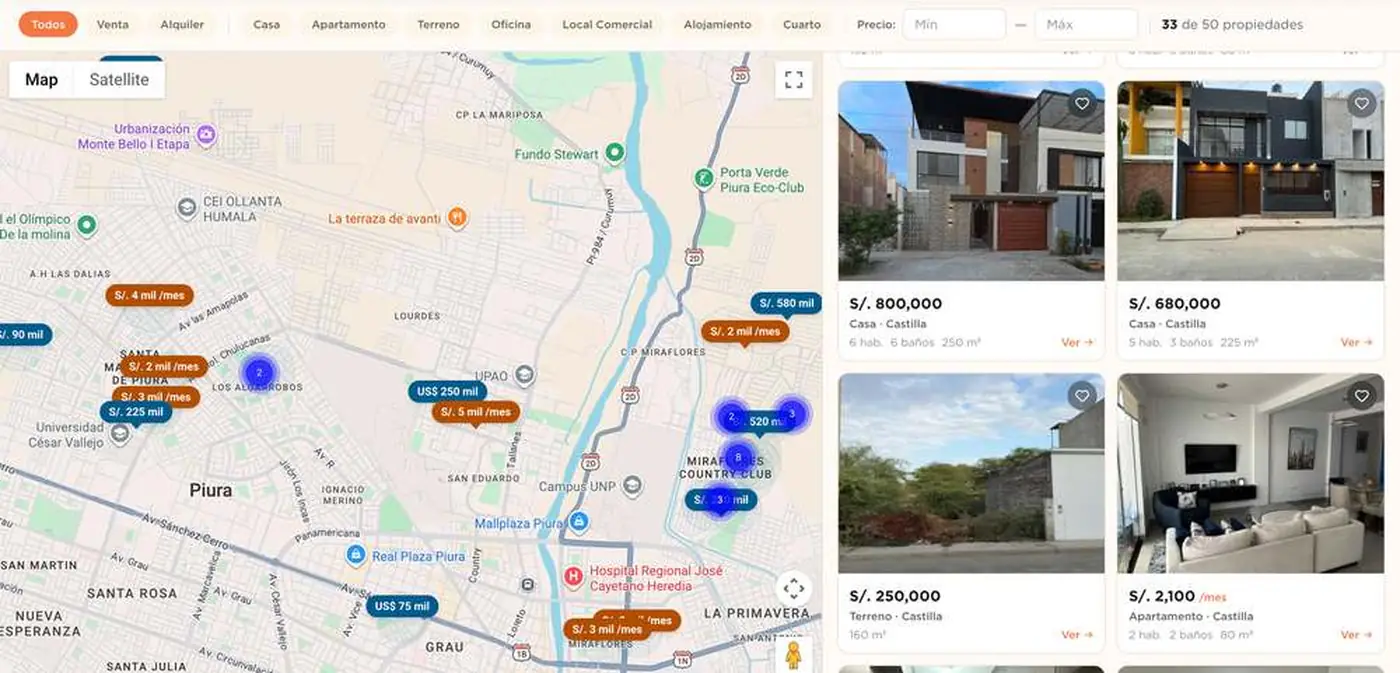
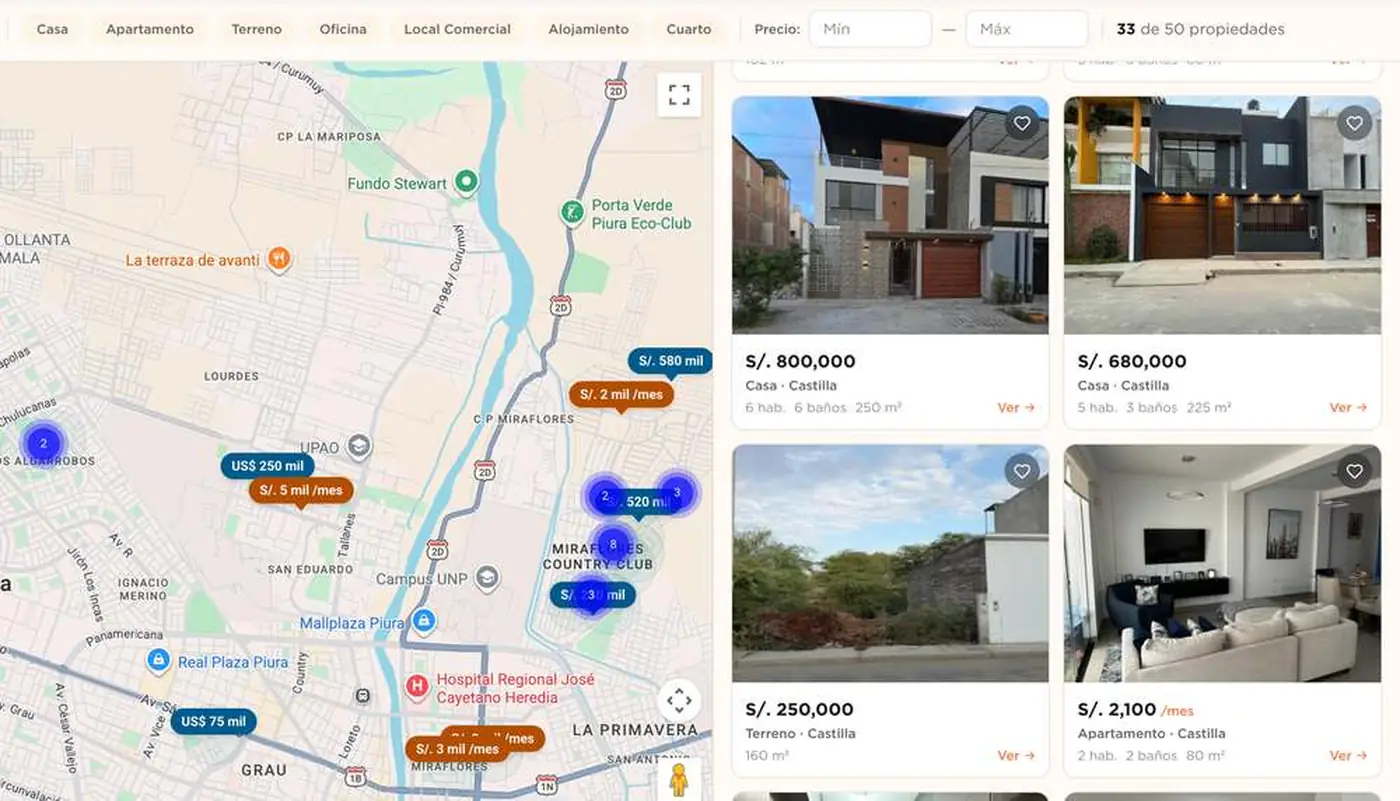
hero: gradient the background window, cut the district row to four
Third design pass, all from a critique of the rendered boards.

The flat 68% fade did not work, and made one thing worse: fading everything
around Google's white 'Map | Satellite' box made the white box relatively
MORE prominent, leaving a competitor's UI as the second most readable thing
in the hero. It is now cropped out of the capture entirely, and the fade is
two masked layers rather than one value -- sharp above the phone, where the
property-type row proves 'cualquier propiedad' in the product's own words,
melting to texture below. The orange rent pills that were competing with the
CTA for ownership of the colour go pale in the same move.

District row cut from six to four on a 5+ listing threshold: Castilla 24,
Sullana 11, Piura 6, 26 de Octubre 5 -- 46 of the 49 live listings. Miguel
Checa had one listing, which is not coverage, and is the first name a local
would test. A threshold is a defensible rule; picking by feel is not.

Body copy: 'el mismo dia' had lost its antecedent when the audience clause
was cut, so it dangled. 'Anuncias hoy y tu propiedad ya esta en el mapa'
anchors it and still claims only that the map exists, which needs nobody to
be looking at it.

Mobile map crop shifted so no price pill sits half-hidden behind the VER EL
MAPA control.

Claude-Session: https://claude.ai/code/session_01Dw9WyPae1fpWxV4qxejeAU

diff --git a/src/components/landing/HeroSection.tsx b/src/components/landing/HeroSection.tsx
@@ -22,7 +22,8 @@ interface HeroSectionProps {
  *   It reads better and implies an audience we do not have (52 users, 257
  *   listing views all time), which constraints.md forbids. Same-day is a
  *   verified fact: listings are written straight to status 'active' with no
- *   moderation gate.
+ *   moderation gate. "el mismo día" was dropped because its antecedent went
+ *   with the audience clause, leaving it dangling; "Anuncias hoy" anchors it.
  * - "Sin límite de avisos" is verified too: no cap exists in the rules, the
  *   services or the functions, and one owner already holds 8 listings.
  * - The free claim is made exactly twice — headline and body. It had been made
@@ -38,18 +39,12 @@ interface HeroSectionProps {
  * - the logo wordmark is #FECD60 on cream, which measures 1.43:1.
  */
 
-// Districts with LIVE listings on production, in count order: Castilla 24,
-// Sullana 11, Piura 6, 26 de Octubre 5, Máncora 2, Miguel Checa 1. Nothing
-// aspirational — a coverage claim we cannot back is what constraints.md rules
-// out. Re-check against production before changing this list.
-const DISTRICTS = [
-  'Castilla',
-  'Sullana',
-  'Piura',
-  '26 de Octubre',
-  'Máncora',
-  'Miguel Checa',
-]
+// Districts with live listings on production, cut at a 5+ threshold: Castilla
+// 24, Sullana 11, Piura 6, 26 de Octubre 5 — 46 of the 49 live listings.
+// Máncora (2) and Miguel Checa (1) are real but too thin to stand behind a
+// coverage claim, and one listing is the item a local would test first. The
+// threshold is the rule, not taste. Re-check against production before editing.
+const DISTRICTS = ['Castilla', 'Sullana', 'Piura', '26 de Octubre']
 
 export default function HeroSection({ heroRef }: HeroSectionProps) {
   // Anonymous visitors hitting the CTA land at /app/login (AuthGuard redirect).
@@ -113,8 +108,8 @@ export default function HeroSection({ heroRef }: HeroSectionProps) {
         aria-hidden="true"
         className="pointer-events-none absolute inset-y-0 left-1/2 hidden xl:block"
       >
-        <div className="absolute left-6 top-[96px] h-[724px] w-[1135px] max-w-none overflow-hidden rounded-t-xl border border-b-0 border-border bg-white opacity-[0.68] shadow-[0_24px_48px_rgba(28,28,30,0.07)]">
-          <div className="flex h-[34px] items-center gap-2 border-b border-border bg-[#F6F1E8] px-3.5">
+        <div className="absolute left-6 top-[96px] h-[724px] w-[1135px] max-w-none overflow-hidden rounded-t-xl border border-b-0 border-border bg-white shadow-[0_24px_48px_rgba(28,28,30,0.07)]">
+          <div className="relative z-10 flex h-[34px] items-center gap-2 border-b border-border bg-[#F6F1E8] px-3.5 opacity-85">
             <span className="h-2.5 w-2.5 rounded-full bg-[#DED6C8]" />
             <span className="h-2.5 w-2.5 rounded-full bg-[#DED6C8]" />
             <span className="h-2.5 w-2.5 rounded-full bg-[#DED6C8]" />
@@ -122,10 +117,35 @@ export default function HeroSection({ heroRef }: HeroSectionProps) {
               oqupa.com
             </span>
           </div>
+          {/* Two layers with complementary vertical masks, not one flat
+              opacity. A uniform fade lightened everything EXCEPT Google's white
+              "Map | Satellite" box, which became relatively MORE prominent —
+              fading the surround is what promotes a white object. The sharp
+              layer survives only in the band above the phone, where the
+              property-type row proves "cualquier propiedad" in the product's
+              own vocabulary; below the handover it all melts to texture. */}
           <img
             src={webMap}
             alt=""
-            className="block h-[690px] w-full object-cover object-left-top blur-[1.3px]"
+            className="absolute inset-x-0 top-[34px] block h-[690px] w-full object-cover object-left-top opacity-80"
+            style={{
+              maskImage:
+                'linear-gradient(to bottom, #000 0px, #000 114px, transparent 204px)',
+              WebkitMaskImage:
+                'linear-gradient(to bottom, #000 0px, #000 114px, transparent 204px)',
+            }}
+            loading="lazy"
+          />
+          <img
+            src={webMap}
+            alt=""
+            className="absolute inset-x-0 top-[34px] block h-[690px] w-full object-cover object-left-top opacity-[0.42] blur-[3.5px]"
+            style={{
+              maskImage:
+                'linear-gradient(to bottom, transparent 0px, transparent 114px, #000 204px)',
+              WebkitMaskImage:
+                'linear-gradient(to bottom, transparent 0px, transparent 114px, #000 204px)',
+            }}
             loading="lazy"
           />
         </div>
@@ -158,8 +178,8 @@ export default function HeroSection({ heroRef }: HeroSectionProps) {
           </h1>
 
           <p className="mt-4 max-w-[350px] font-sans text-[15.5px] leading-[1.5] text-text-secondary sm:max-w-[560px] sm:text-[17px] xl:mt-6 xl:text-[18.5px] xl:leading-[1.55]">
-            Sin comisiones, sin tarifas, sin límite de avisos. Tu propiedad
-            aparece en el mapa el mismo día.
+            Sin comisiones, sin tarifas, sin límite de avisos. Anuncias hoy y
+            tu propiedad ya está en el mapa.
           </p>
 
           <Link
@@ -225,7 +245,7 @@ export default function HeroSection({ heroRef }: HeroSectionProps) {
           <img
             src={appMap}
             alt="El mapa de Oqupa con precios reales de propiedades en Piura"
-            className="block h-[348px] w-full object-cover object-[center_30%]"
+            className="block h-[348px] w-full object-cover object-[center_38%]"
             loading="eager"
           />
           <span className="absolute right-5 top-3.5 rounded-[20px] bg-white px-[18px] py-2.5 font-sans text-xs font-bold uppercase tracking-[1px] text-text-primary shadow-[0_2px_6px_rgba(28,28,30,0.14),0_8px_20px_rgba(28,28,30,0.10)] transition-transform duration-200 group-hover:scale-[1.03]">
